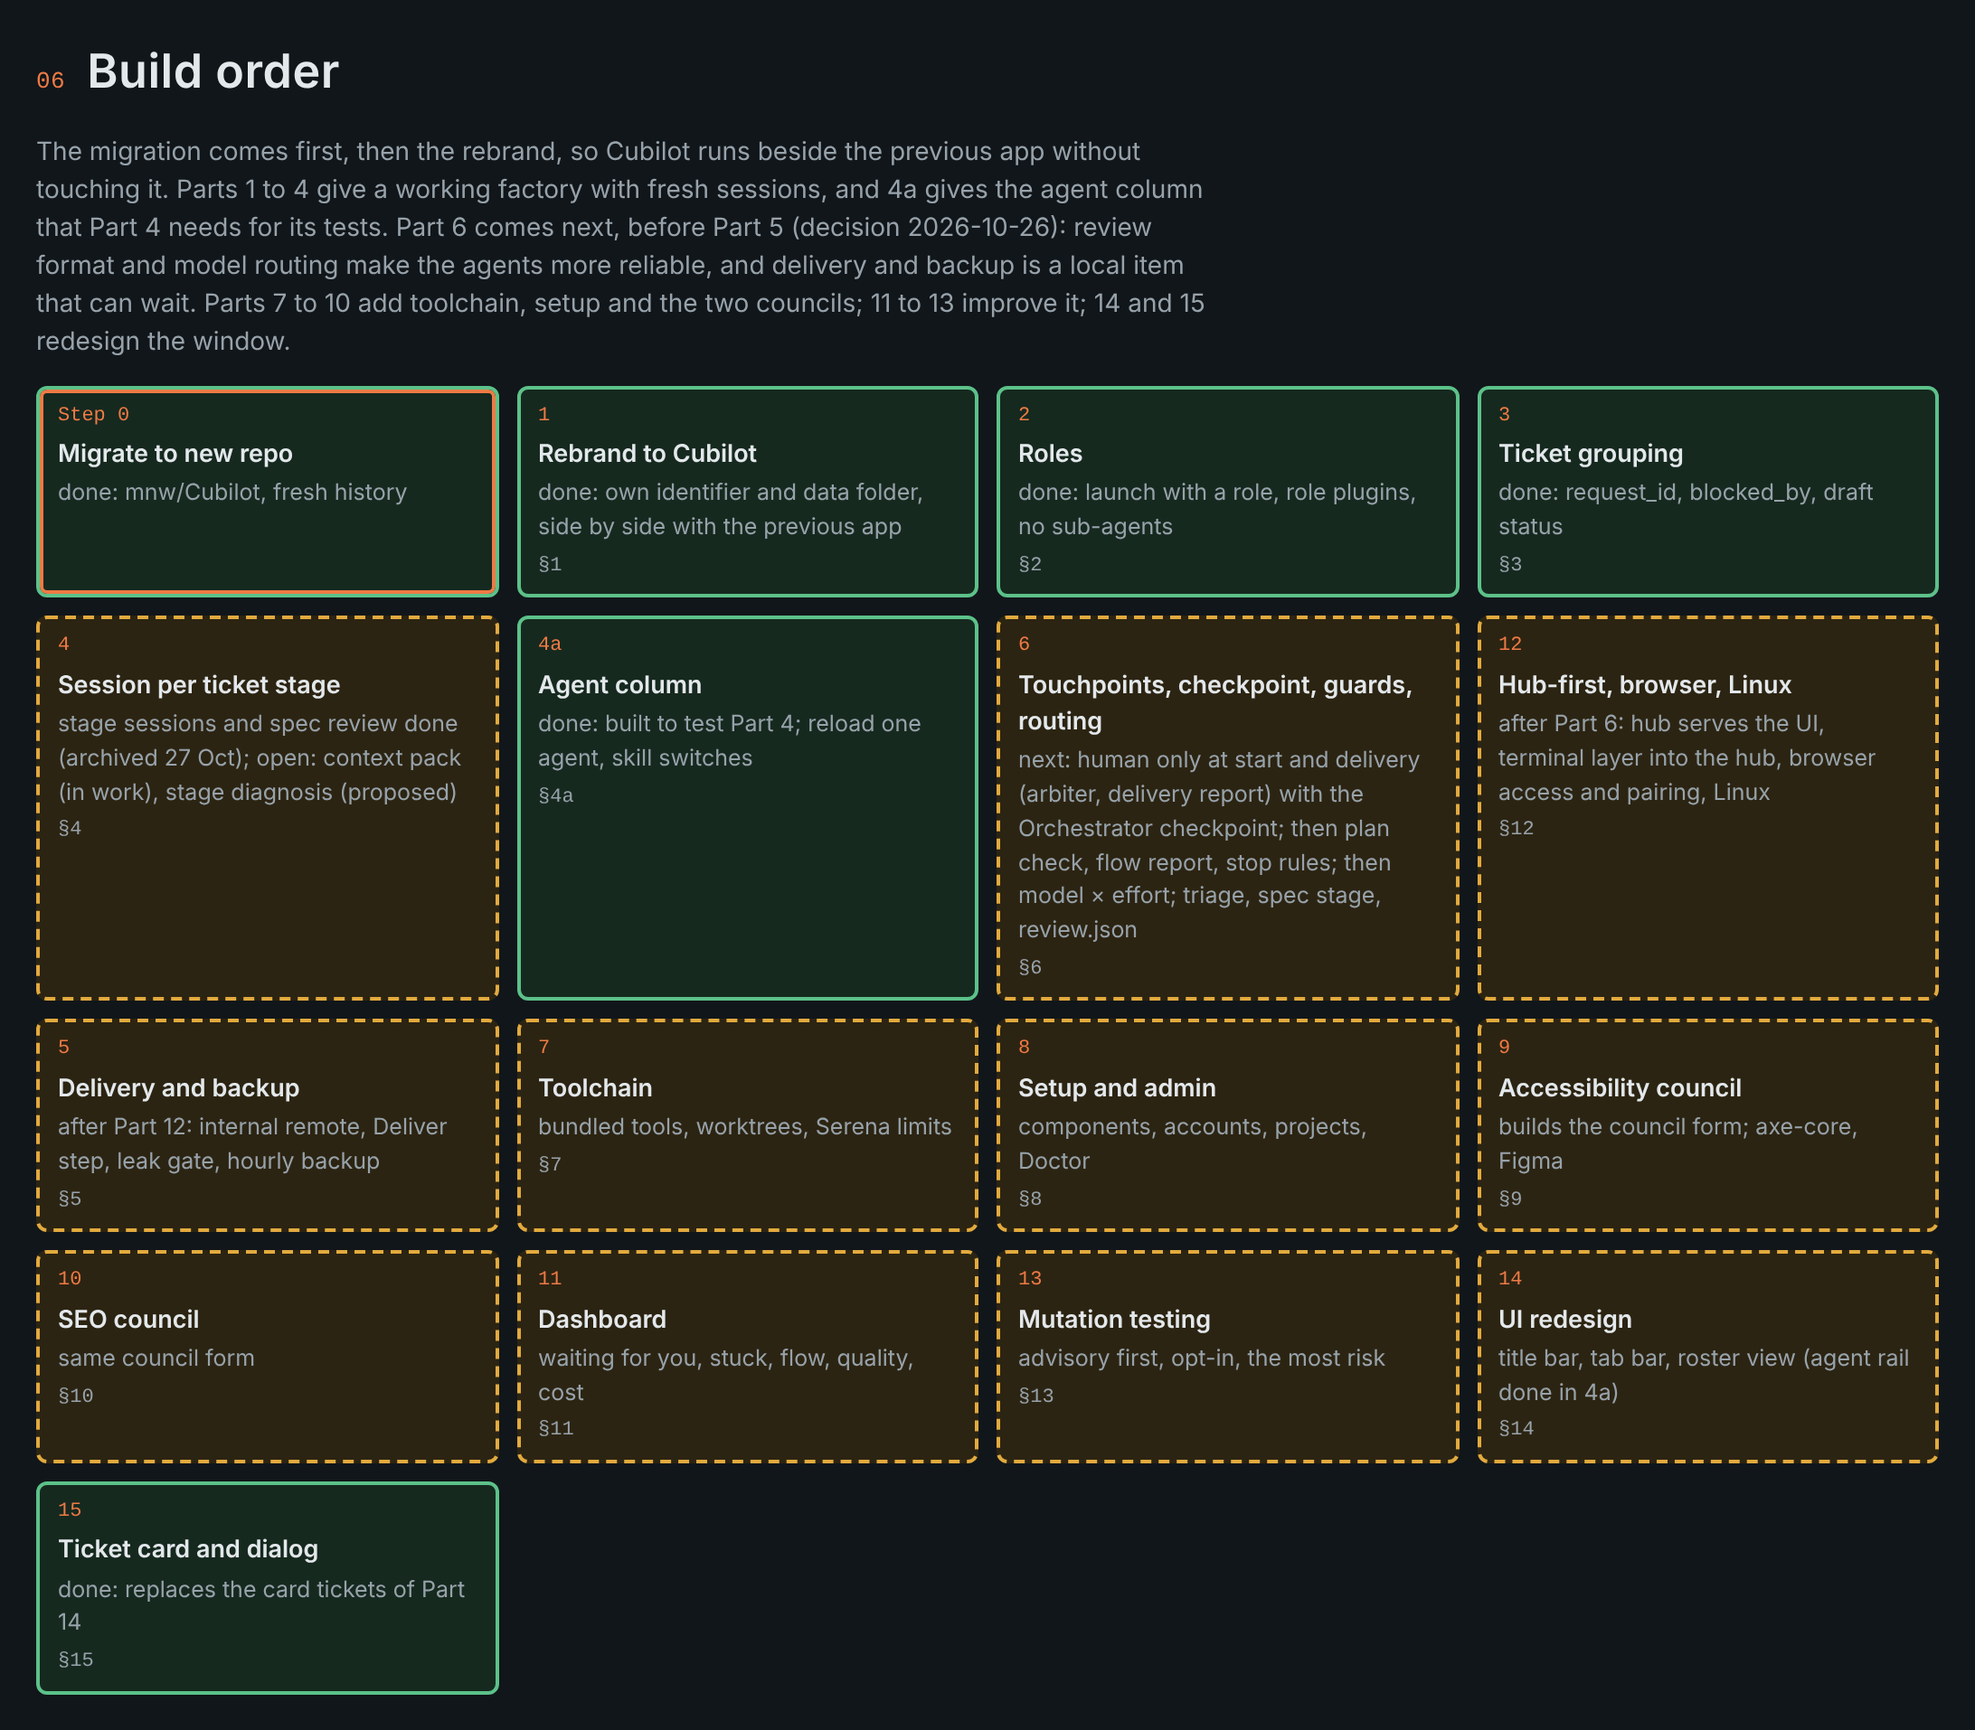
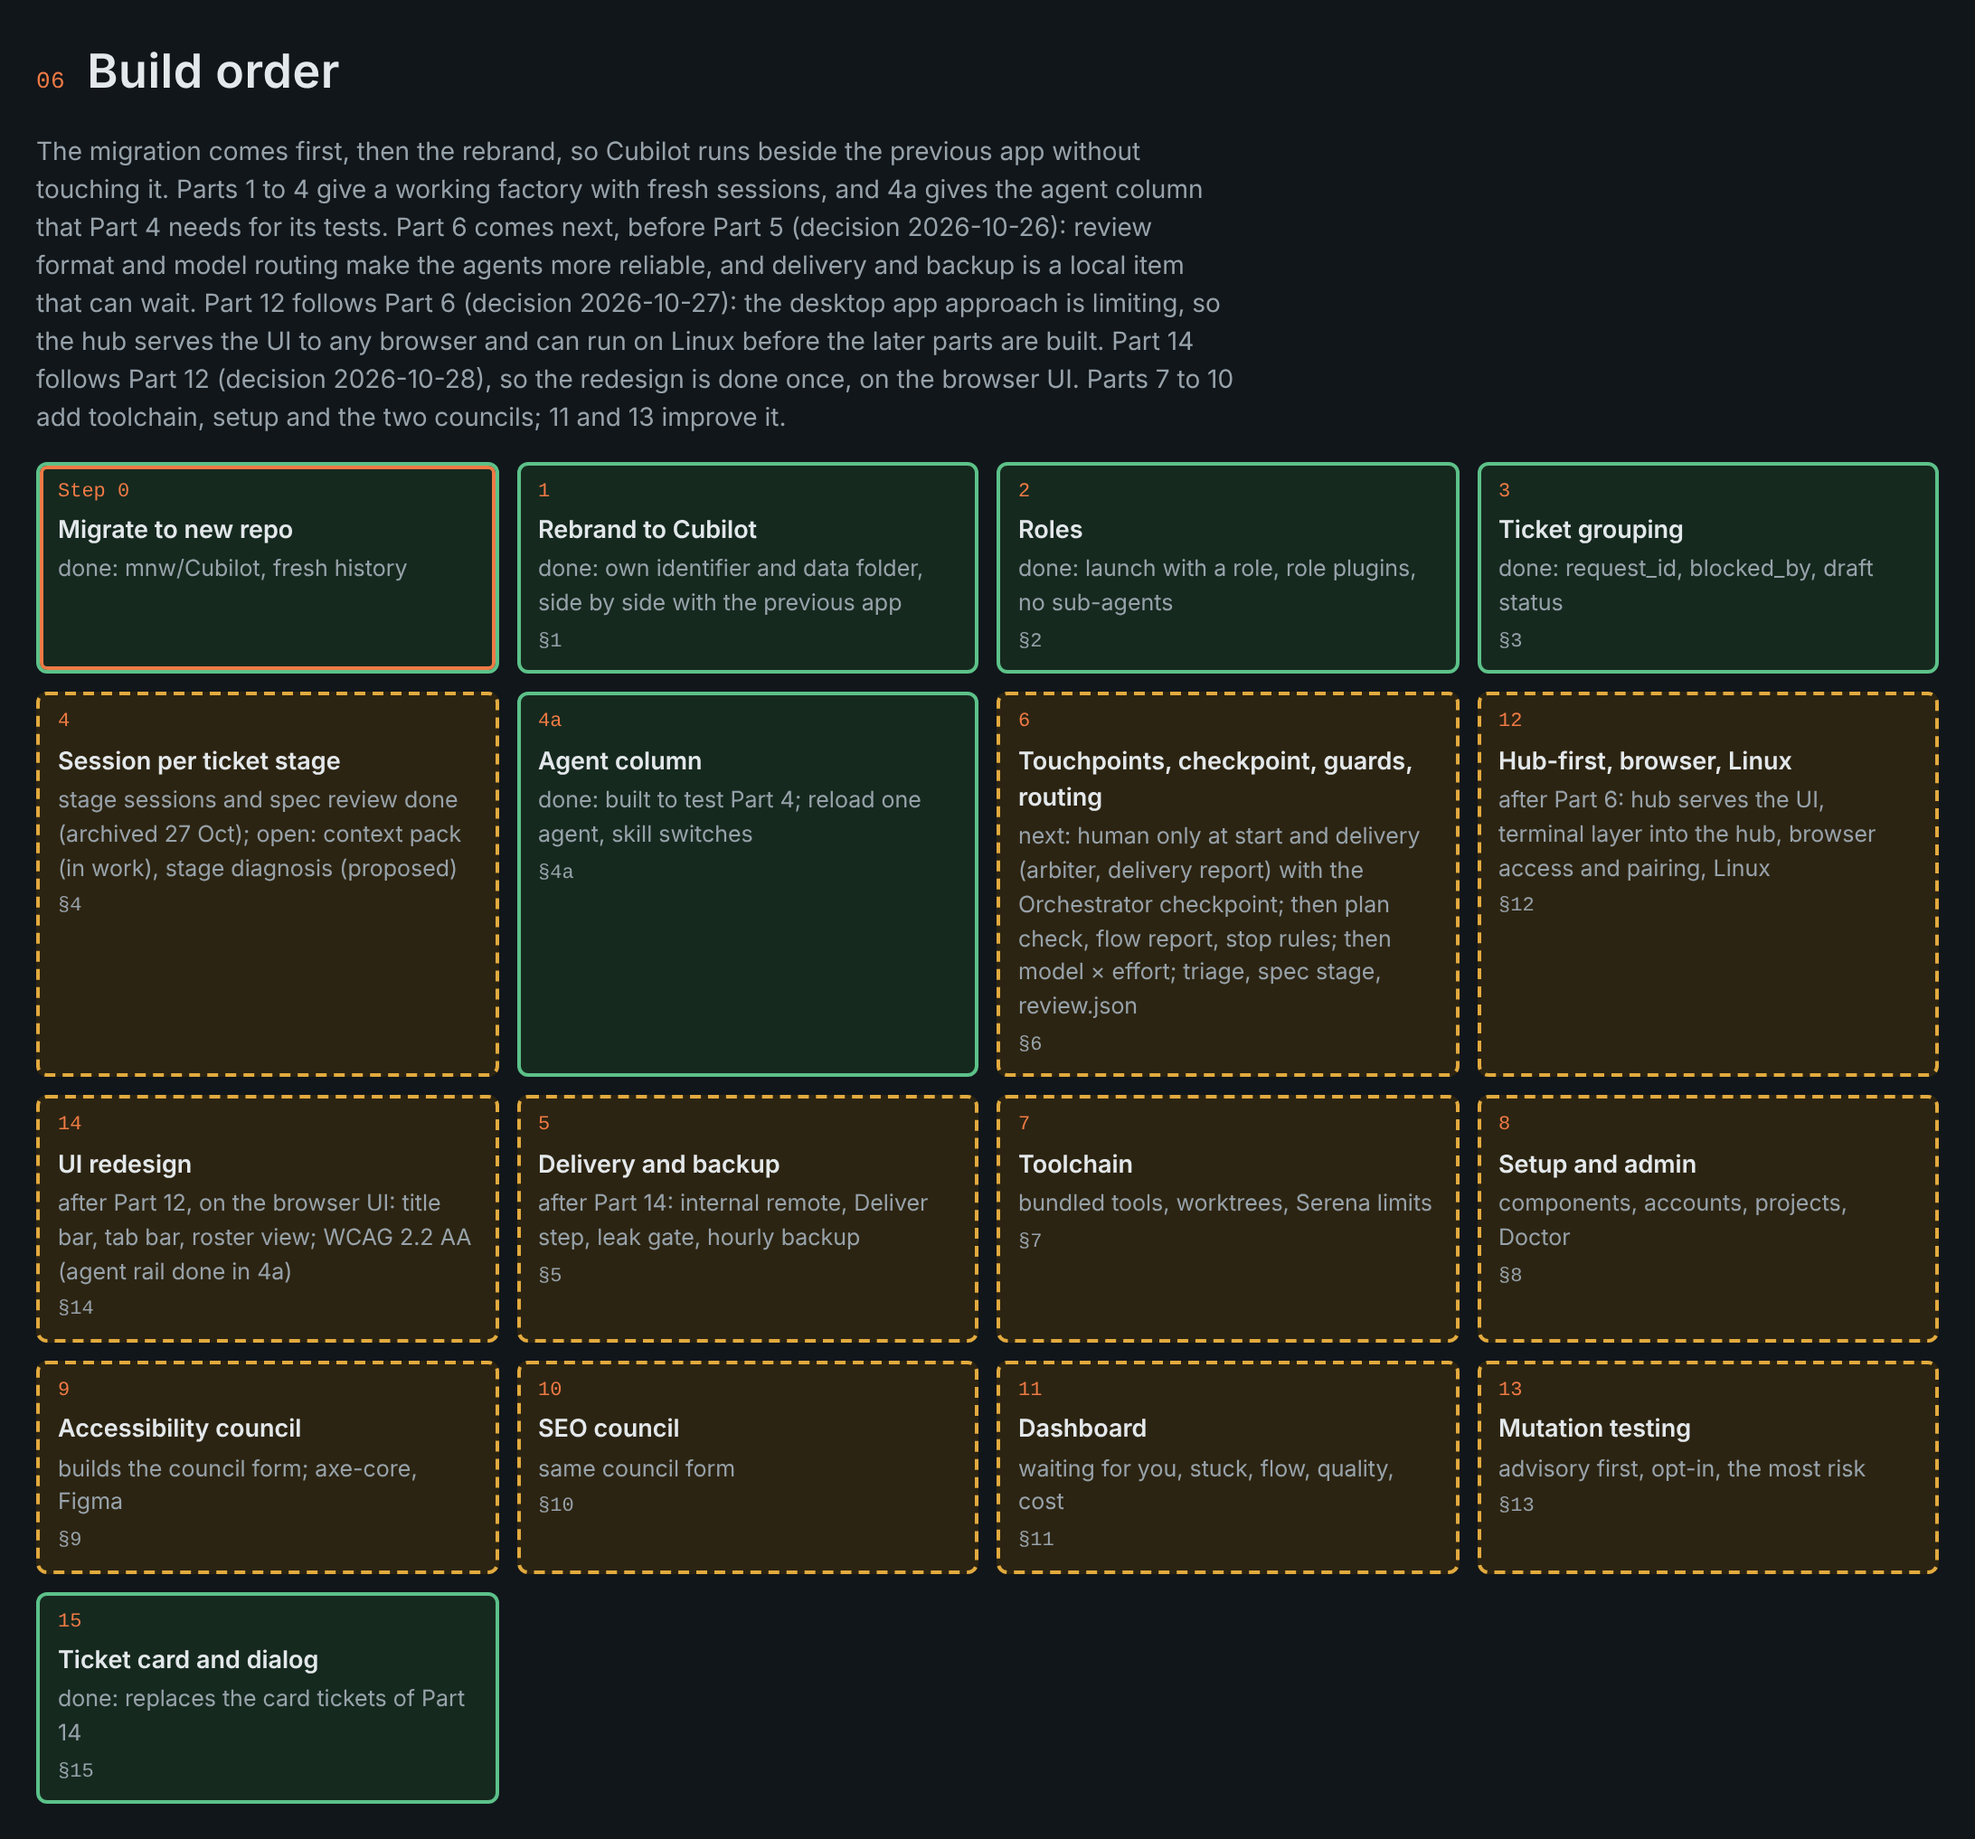
docs: Part 14 right after Part 12 (redesign on the browser UI); accessibility target WCAG 2.2 AA; map

Changed region(s): [[0.0, 0.0308, 0.9963, 0.9864], [0.4048, 0.7706, 0.467, 0.8015]]

diff --git a/docs/factory-map.html b/docs/factory-map.html
@@ -461,7 +461,7 @@ footer{color:var(--muted);font-size:12.5px;display:grid;gap:4px}
 <!-- 6 BUILD ORDER -->
 <section class="sec" aria-labelledby="h-seq">
   <h2 id="h-seq"><span class="num">06</span>Build order</h2>
-  <p class="intro">The migration comes first, then the rebrand, so Cubilot runs beside the previous app without touching it. Parts 1 to 4 give a working factory with fresh sessions, and 4a gives the agent column that Part 4 needs for its tests. Part 6 comes next, before Part 5 (decision 2026-10-26): review format and model routing make the agents more reliable, and delivery and backup is a local item that can wait. Parts 7 to 10 add toolchain, setup and the two councils; 11 to 13 improve it; 14 and 15 redesign the window.</p>
+  <p class="intro">The migration comes first, then the rebrand, so Cubilot runs beside the previous app without touching it. Parts 1 to 4 give a working factory with fresh sessions, and 4a gives the agent column that Part 4 needs for its tests. Part 6 comes next, before Part 5 (decision 2026-10-26): review format and model routing make the agents more reliable, and delivery and backup is a local item that can wait. Part 12 follows Part 6 (decision 2026-10-27): the desktop app approach is limiting, so the hub serves the UI to any browser and can run on Linux before the later parts are built. Part 14 follows Part 12 (decision 2026-10-28), so the redesign is done once, on the browser UI. Parts 7 to 10 add toolchain, setup and the two councils; 11 and 13 improve it.</p>
   <div class="seq">
     <div class="n built first"><span class="step">Step 0</span><span class="t">Migrate to new repo</span><span class="d">done: mnw/Cubilot, fresh history</span></div>
     <div class="n built"><span class="step">1</span><span class="t">Rebrand to Cubilot</span><span class="d">done: own identifier and data folder, side by side with the previous app</span><span class="ref">§1</span></div>
@@ -471,14 +471,14 @@ footer{color:var(--muted);font-size:12.5px;display:grid;gap:4px}
     <div class="n built"><span class="step">4a</span><span class="t">Agent column</span><span class="d">done: built to test Part 4; reload one agent, skill switches</span><span class="ref">§4a</span></div>
     <div class="n planned"><span class="step">6</span><span class="t">Touchpoints, checkpoint, guards, routing</span><span class="d">next: human only at start and delivery (arbiter, delivery report) with the Orchestrator checkpoint; then plan check, flow report, stop rules; then model × effort; triage, spec stage, review.json</span><span class="ref">§6</span></div>
     <div class="n planned"><span class="step">12</span><span class="t">Hub-first, browser, Linux</span><span class="d">after Part 6: hub serves the UI, terminal layer into the hub, browser access and pairing, Linux</span><span class="ref">§12</span></div>
-    <div class="n planned"><span class="step">5</span><span class="t">Delivery and backup</span><span class="d">after Part 12: internal remote, Deliver step, leak gate, hourly backup</span><span class="ref">§5</span></div>
+    <div class="n planned"><span class="step">14</span><span class="t">UI redesign</span><span class="d">after Part 12, on the browser UI: title bar, tab bar, roster view; WCAG 2.2 AA (agent rail done in 4a)</span><span class="ref">§14</span></div>
+    <div class="n planned"><span class="step">5</span><span class="t">Delivery and backup</span><span class="d">after Part 14: internal remote, Deliver step, leak gate, hourly backup</span><span class="ref">§5</span></div>
     <div class="n planned"><span class="step">7</span><span class="t">Toolchain</span><span class="d">bundled tools, worktrees, Serena limits</span><span class="ref">§7</span></div>
     <div class="n planned"><span class="step">8</span><span class="t">Setup and admin</span><span class="d">components, accounts, projects, Doctor</span><span class="ref">§8</span></div>
     <div class="n planned"><span class="step">9</span><span class="t">Accessibility council</span><span class="d">builds the council form; axe-core, Figma</span><span class="ref">§9</span></div>
     <div class="n planned"><span class="step">10</span><span class="t">SEO council</span><span class="d">same council form</span><span class="ref">§10</span></div>
     <div class="n planned"><span class="step">11</span><span class="t">Dashboard</span><span class="d">waiting for you, stuck, flow, quality, cost</span><span class="ref">§11</span></div>
     <div class="n planned"><span class="step">13</span><span class="t">Mutation testing</span><span class="d">advisory first, opt-in, the most risk</span><span class="ref">§13</span></div>
-    <div class="n planned"><span class="step">14</span><span class="t">UI redesign</span><span class="d">title bar, tab bar, roster view (agent rail done in 4a)</span><span class="ref">§14</span></div>
     <div class="n built"><span class="step">15</span><span class="t">Ticket card and dialog</span><span class="d">done: replaces the card tickets of Part 14</span><span class="ref">§15</span></div>
   </div>
 </section>

diff --git a/factory/brief/00-index.md b/factory/brief/00-index.md
@@ -26,12 +26,12 @@ The brief has sixteen parts. The numbers follow the build order (decision 2026-1
 11. [11-dashboard.md](11-dashboard.md): Progress dashboard: what waits for the human, what is stuck, flow, quality and cost.
 12. [12-hub-first-linux.md](12-hub-first-linux.md): Hub-first architecture, browser access and Linux hosting (planned). Build it directly after Part 6 (decision 2026-10-27).
 13. [13-mutation-testing.md](13-mutation-testing.md): Mutation testing: advisory first, opt-in for each project. Last, because of its risk.
-14. [14-ui-redesign.md](14-ui-redesign.md): UI redesign (refined warm terminal). One agent rail, one title bar and a compact chat log. One tab bar for the right pane, clearer ticket cards and an Agent roster view.
+14. [14-ui-redesign.md](14-ui-redesign.md): UI redesign (refined warm terminal). Build it directly after Part 12 (decision 2026-10-28), on the browser UI. One agent rail, one title bar and a compact chat log. One tab bar for the right pane, clearer ticket cards and an Agent roster view.
 15. [15-ticket-card-dialog.md](15-ticket-card-dialog.md): Ticket card and ticket dialog redesign (done). It replaces T11, T12 and T13 of Part 14.
 
 ## How to use these files
 
 - Each part is complete in its file. It names other parts as "Part N". Find Part N in the list above.
-- Build order: the parts in their number order, with two exceptions. Part 6 comes before Part 5 (decision 2026-10-26). Part 12 comes directly after Part 6, before Part 5 (decision 2026-10-27): the desktop app approach limits the factory, and Parts 7, 8, 11 and 14 must be built on the hub-served UI from the start. The order is 1, 2, 3, 4, 6, 12, 5, 7, 8, 9, 10, 11, 13, 14. Part 6 makes the work of the agents more reliable. Part 5 is a local item that can wait. Parts 2 and 4 have a fast path outside the app: a launch script and a ticket runner. You can set up the hourly backup of Part 5 at once.
+- Build order: the parts in their number order, with two exceptions. Part 6 comes before Part 5 (decision 2026-10-26). Part 12 comes directly after Part 6, before Part 5 (decision 2026-10-27): the desktop app approach limits the factory, and Parts 7, 8, 11 and 14 must be built on the hub-served UI from the start. The order is 1, 2, 3, 4, 6, 12, 14, 5, 7, 8, 9, 10, 11, 13. Part 14 follows Part 12 (decision 2026-10-28), so the redesign is done once, on the browser UI. Part 6 makes the work of the agents more reliable. Part 5 is a local item that can wait. Parts 2 and 4 have a fast path outside the app: a launch script and a ticket runner. You can set up the hourly backup of Part 5 at once.
 - Why this order: Parts 1 to 5 make a working factory with fresh sessions and safe delivery. Parts 6 to 10 add the review format, the toolchain, the setup screen and the two councils. Part 12 makes the UI reachable from a browser and the hub able to run on Linux. Parts 11 and 13 are improvements and the part with the most risk.
 - The order of Parts 1 and 2 changed on 2026-10-21: the rebrand is now first.

diff --git a/factory/brief/14-ui-redesign.md b/factory/brief/14-ui-redesign.md
@@ -1,6 +1,6 @@
 # Part 14: UI redesign (refined warm terminal)
 
-Status: ready to plan. The human chose to include every proposal on the mockup. Some tickets wait for an answer from the human (see "Open questions").
+Status: ready to plan. Build it directly after Part 12 (decision 2026-10-28), on the UI that the hub serves to the browser. Line references below are from 2026-10-22 and must be checked again after Part 12. The human chose to include every proposal on the mockup. Some tickets wait for an answer from the human (see "Open questions").
 Date: 2026-10-22. File paths and line numbers refer to the working tree on that date (`main`, 4 commits ahead of `origin/main`).
 Reader: the Orchestrator. Split this part into tickets. The section "Tickets" gives one ticket for each item, with acceptance criteria.
 
@@ -30,6 +30,7 @@ Make the main window calmer and easier to scan. Keep every function that exists 
 4. The mockup uses the font IBM Plex Sans. Use the bundled `--sans` (Inter) and `--mono` (JetBrains Mono) instead. Do not load a web font.
 5. Use the `--fs-*` steps for font sizes, so the `font_scale` setting in `config.yml` keeps working.
 6. Use real `<button>`, `<a>`, `<select>`, `<input>` and `<label>` elements. Every action must work from the keyboard. Text contrast must be 4.5:1 or more.
+6a. Accessibility target (decision 2026-10-28): WCAG 2.2 AA for the browser UI that the hub serves (Part 12), because Cubilot is not only for one user. Screen-reader checks (VoiceOver and NVDA) start with this part. Before this part and Part 12, the current desktop UI gets no screen-reader checks, because it will be rebuilt.
 7. Put new pure logic in small modules that run in node, like `ui/features/pill-card.js`. Test them with `bun test` in `tests/unit/`.
 8. Do not commit. The human commits.
 9. After a change in `hub/`, run `./scripts/build-sidecars.sh`. Use `./scripts/install.sh` for app rebuilds.

diff --git a/factory/brief/12-hub-first-linux.md b/factory/brief/12-hub-first-linux.md
@@ -45,6 +45,10 @@ The shell (`src-tauri/src/lib.rs`, `src-tauri/src/pty.rs`) exposes these command
    - `local`: a browser on the same computer can open the UI.
    - `network`: the UI is reachable from other devices, only through a private network such as Tailscale (`tailscale serve`). The hub never listens on a public address.
 
+## Accessibility
+
+The browser UI is the UI that other people will use. It must meet WCAG 2.2 AA (Part 14, rule 6a). The accessibility council (Part 9) can audit it once it runs in a browser.
+
 ## Security requirements
 
 A hub that can launch shell commands is a target. Other websites in the user's browser can try to send requests to it.
@@ -84,7 +88,7 @@ Tests for Linux:
 
 - Parts 1 to 4 and Part 6 come first, in the current app on macOS.
 - Then this part, before Part 5 and Parts 7 to 11 (decision 2026-10-27). So the Doctor (Part 7), the setup screen (Part 8) and the dashboard (Part 11) are built in the hub and served to the browser from the start. Nothing moves later.
-- Part 14 (UI redesign) works on the UI that the hub serves.
+- Part 14 (UI redesign) comes directly after this part (decision 2026-10-28). It works on the UI that the hub serves, so the redesign is done once, in the browser.
 - First step: the tmux control mode test (open question 1). It decides the terminal design. Second step: move the settings commands. Third step: the terminal stream. Fourth step: browser access and pairing. Fifth step: the Linux checklist.
 - Start with an OpenSpec change for steps 1 to 4. The Linux checklist can be a second change.
 

diff --git a/README.md b/README.md
@@ -45,7 +45,7 @@ Cubilot is a macOS desktop app. It runs a team of coding agents (Claude Code, an
 
 <picture>
   <source media="(prefers-color-scheme: dark)" srcset="docs/readme/06-build-order-dark.png">
-  <img alt="Build order: migration, rebrand, roles, ticket grouping, the agent column (4a) and the ticket card and dialog (15) done; Part 4 in test; then Part 6, Part 12 (hub-first, browser access, Linux), Part 5, and Parts 7 to 14" src="docs/readme/06-build-order-light.png" width="100%">
+  <img alt="Build order: migration, rebrand, roles, ticket grouping, the agent column (4a) and the ticket card and dialog (15) done; Part 4 in test; then Part 6, Part 12 (hub-first, browser access, Linux), Part 14 (UI redesign on the browser UI), Part 5, and Parts 7 to 13" src="docs/readme/06-build-order-light.png" width="100%">
 </picture>
 
 ## Build from source
